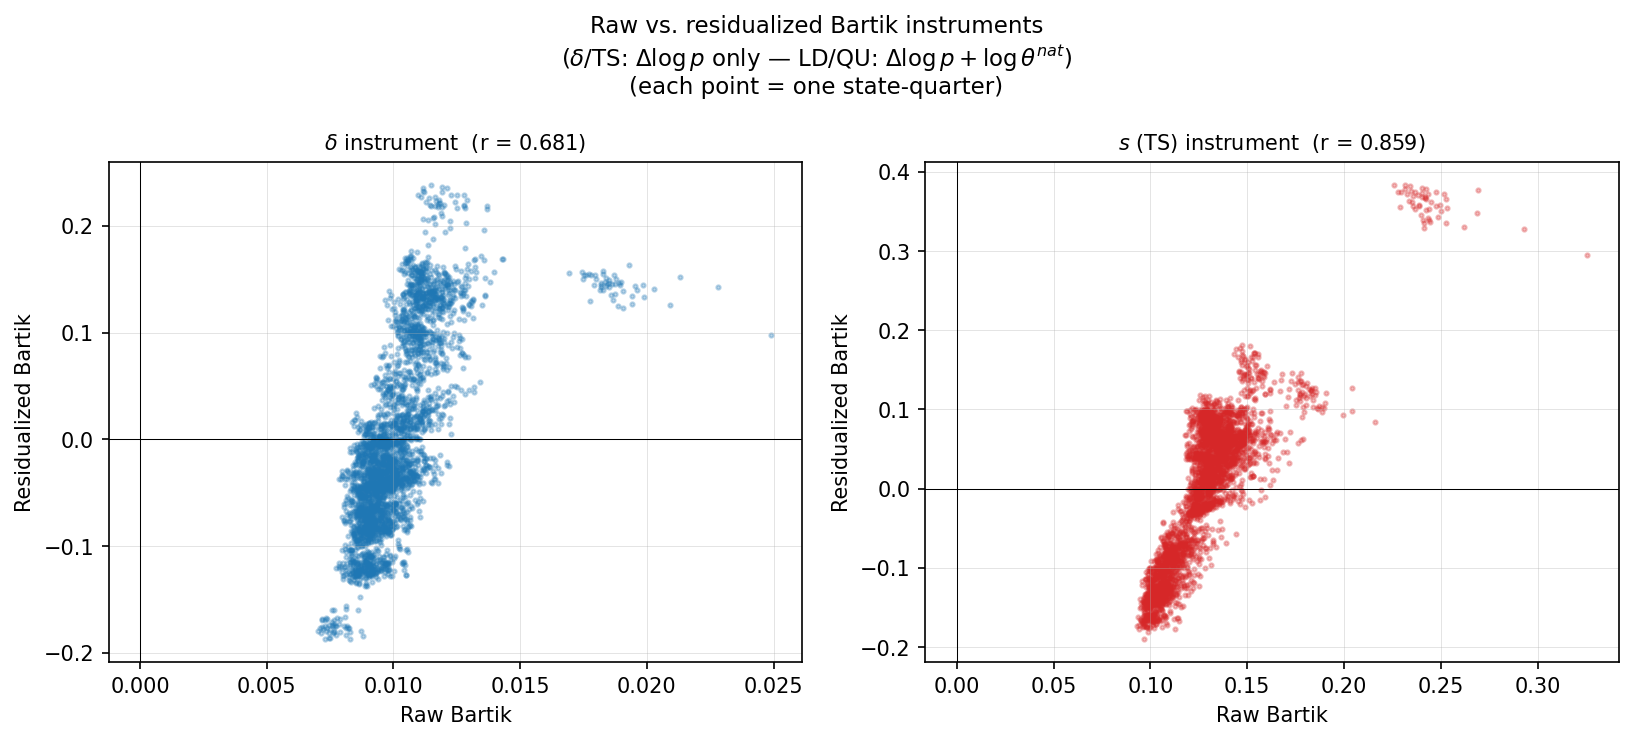
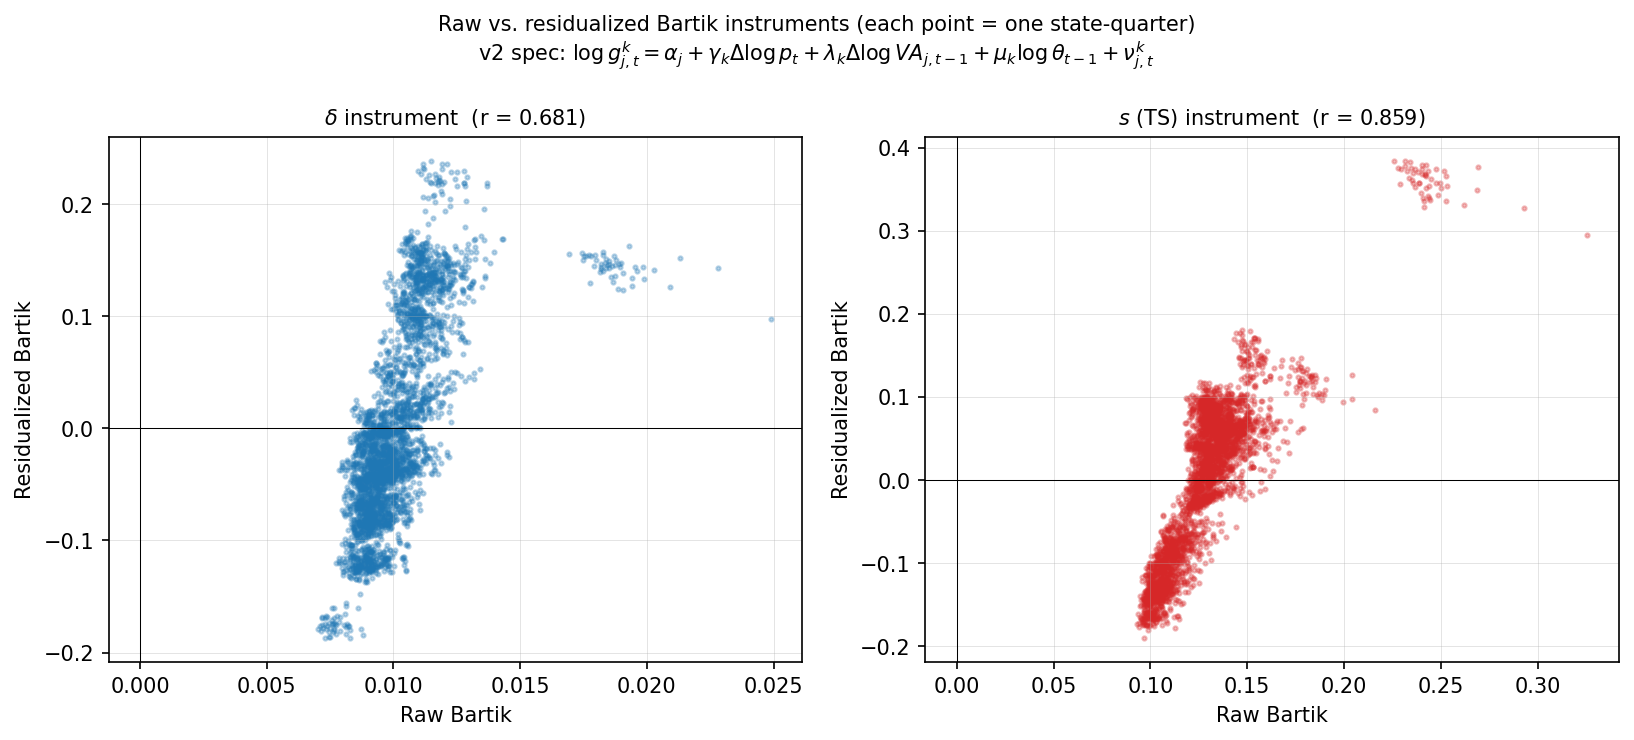
Update parts 2 and 3

diff --git a/Data/Bartek analysis/part3_resid_instruments.py b/Data/Bartek analysis/part3_resid_instruments.py
@@ -9,11 +9,15 @@ produced by part2b_shock_comovement.py:
     B~^LD_{s,t} = Σ_j  ω_{s,j}  nu_LD_{j,t}   (layoffs and discharges)
     B~^QU_{s,t} = Σ_j  ω_{s,j}  nu_QU_{j,t}   (quits)
 
-where ν^k_{j,t} are residuals from shock-specific regressions (see part2b):
-    log g^δ_{j,t}  = α_j + γ_δ  Δlog p_t                    + nu_delta_{j,t}
-    log g^TS_{j,t} = α_j + γ_TS Δlog p_t                    + nu_TS_{j,t}
-    log g^LD_{j,t} = α_j + γ_LD Δlog p_t + λ_LD log θ_t^nat + nu_LD_{j,t}
-    log g^QU_{j,t} = α_j + γ_QU Δlog p_t + λ_QU log θ_t^nat + nu_QU_{j,t}
+where ν^k_{j,t} are residuals from the v2 enriched regression in part2b:
+    log g^k_{j,t} = α_j + γ_k Δlog p_t + λ_k Δlog VA_{j,t-1} + μ_k log θ_{t-1} + ν^k_{j,t}
+
+    Δlog p_t       = aggregate productivity growth (OPHNFB, quarterly)
+    Δlog VA_{j,t-1}= lagged real value-added growth in supersector j (BEA via FRED)
+    log θ_{t-1}    = lagged national market tightness log(V/U)
+
+    The VA and tightness regressors are included for all shock types.
+    Both are lagged one quarter to ensure predetermination w.r.t. g^k_{j,t}.
 
 The employment shares ω_{s,j} are identical to those used in part3 and
 part3_instrument_s (base-year 2006 QCEW shares).
@@ -141,22 +145,56 @@ for lbl, df, col in [("nu_delta",  resid_d,  "nu_delta"),
 # ── Bartik aggregation ─────────────────────────────────────────────────────
 # B~^k_{s,t} = Σ_j  ω_{s,j}  ν^k_{j,t}
 
-def _build_resid_bartik(shares, resid, shock_col, bartik_col):
+def _build_resid_bartik(shares, resid, shock_col, bartik_col,
+                        weight_warn_threshold=0.80):
     """
     Aggregate residualized national industry shocks to state-quarter Bartik.
 
     Parameters
     ----------
-    shares     : state_fips, industry_code, share
-    resid      : industry_code, quarter_label, shock_col
-    shock_col  : residual column name (e.g. "nu_delta")
-    bartik_col : output instrument column name
+    shares                : state_fips, industry_code, share
+    resid                 : industry_code, quarter_label, shock_col
+    shock_col             : residual column name (e.g. "nu_delta")
+    bartik_col            : output instrument column name
+    weight_warn_threshold : print warning if weight_sum < this (default 0.80)
 
     Returns
     -------
     DataFrame: state, state_fips, quarter_label, bartik_col,
                weight_sum, n_supersectors
+
+    Notes
+    -----
+    Weight coverage can fall below 1.0 when the residual parquet is missing
+    data for some industries (e.g. JOLTS suppresses quits for thin-sample
+    supersectors like Mining or Information).  The diagnostic block below
+    identifies which industries are missing so the caller can decide whether
+    coverage is adequate for the intended instrument.
     """
+    # ── coverage diagnostic ───────────────────────────────────────────────
+    # Report which industries have ANY non-null residuals vs. which are
+    # completely absent.  A missing industry lowers weight_sum for every
+    # state that has employment in it.
+    all_inds   = set(shares["industry_code"].unique())
+    resid_inds = set(resid.dropna(subset=[shock_col])["industry_code"].unique())
+    missing_inds = all_inds - resid_inds
+    if missing_inds:
+        # Compute the average employment share of missing industries
+        # (approximates how much weight_sum will be depressed on average)
+        avg_missing_share = (
+            shares[shares["industry_code"].isin(missing_inds)]
+            .groupby("state_fips")["share"].sum()
+            .mean()
+        )
+        print(f"    Coverage: {len(resid_inds)}/{len(all_inds)} industries "
+              f"have {shock_col} data.")
+        print(f"    Missing industries: {sorted(missing_inds)}")
+        print(f"    Average missing employment share per state: "
+              f"{avg_missing_share:.3f}  "
+              f"(→ expected mean weight_sum ≈ {1 - avg_missing_share:.3f})")
+    else:
+        print(f"    Coverage: all {len(all_inds)} industries present.")
+
     merged = (
         resid.dropna(subset=[shock_col])
         .merge(shares[["state_fips", "industry_code", "share"]],
@@ -173,13 +211,18 @@ def _build_resid_bartik(shares, resid, shock_col, bartik_col):
     instr = (
         merged
         .groupby(["state_fips", "quarter_label"], group_keys=False)
-        .apply(_agg)
+        .apply(_agg, include_groups=False)
         .reset_index()
     )
 
-    low = instr["weight_sum"] < 0.80
+    low = instr["weight_sum"] < weight_warn_threshold
     if low.any():
-        print(f"    WARNING: {low.sum()} cells with weight coverage < 80%")
+        print(f"    NOTE: {low.sum()} of {len(instr):,} cells have "
+              f"weight_sum < {weight_warn_threshold:.0%} "
+              f"(mean weight = {instr['weight_sum'].mean():.3f}, "
+              f"min = {instr['weight_sum'].min():.3f}).  "
+              f"Interpret instrument with caution if missing industries "
+              f"are economically large.")
 
     instr["state_fips"] = instr["state_fips"].astype(int)
     instr["state"]      = instr["state_fips"].map(FIPS2D_TO_STATE)
@@ -269,7 +312,7 @@ if RAW_D_PATH.exists() and RAW_S_PATH.exists():
 def _quarterly_r(df, col1, col2):
     return (
         df.groupby("quarter_label")
-        .apply(lambda g: g[col1].corr(g[col2]))
+        .apply(lambda g: g[col1].corr(g[col2]), include_groups=False)
         .rename("r_cross").reset_index()
         .sort_values("quarter_label")
         .assign(date=lambda d: d["quarter_label"].map(_ql_to_dt))
@@ -282,40 +325,40 @@ r_dqu  = _quarterly_r(all_instr, "bartik_delta", "bartik_qu")
 # ── plot 1: quarterly cross-sectional correlation ─────────────────────────
 
 fig, ax = plt.subplots(figsize=(12, 4))
-ax.axhline(0,    color="black", linewidth=0.7)
-ax.axhline(0.50, color="grey",  linewidth=0.5, linestyle="--", alpha=0.5,
+_ = ax.axhline(0,    color="black", linewidth=0.7)
+_ = ax.axhline(0.50, color="grey",  linewidth=0.5, linestyle="--", alpha=0.5,
            label="r = 0.50")
-ax.axhline(0.70, color="grey",  linewidth=0.5, linestyle=":",  alpha=0.5,
+_ = ax.axhline(0.70, color="grey",  linewidth=0.5, linestyle=":",  alpha=0.5,
            label="r = 0.70")
 
 colors = {"δ vs TS": "#1f77b4", "δ vs LD": "#d62728", "δ vs QU": "#2ca02c"}
 for r_df, lbl in [(r_dts, "δ vs TS"), (r_dld, "δ vs LD"), (r_dqu, "δ vs QU")]:
-    ax.plot(r_df["date"], r_df["r_cross"],
+    _ = ax.plot(r_df["date"], r_df["r_cross"],
             linewidth=1.6, label=lbl, color=colors[lbl])
 
 # Overlay raw δ vs TS if available.
 if RAW_D_PATH.exists() and RAW_S_PATH.exists() and "both_raw" in dir():
     r_raw_qt = _quarterly_r(both_raw, "bartik_delta", "bartik_s")
-    ax.plot(r_raw_qt["date"], r_raw_qt["r_cross"],
+    _ = ax.plot(r_raw_qt["date"], r_raw_qt["r_cross"],
             color="#1f77b4", linewidth=1.6, linestyle="--", alpha=0.5,
             label="δ vs TS (raw)")
 
 for start, end in REC_SPANS:
-    ax.axvspan(pd.Timestamp(start), pd.Timestamp(end),
+    _ = ax.axvspan(pd.Timestamp(start), pd.Timestamp(end),
                alpha=0.10, color="grey",
                label="NBER recessions" if start == "2001-03-01" else "_nolegend_")
 
-ax.set_title(
+_ = ax.set_title(
     r"Quarterly cross-sectional correlation with $\tilde{B}^\delta$"
     "\n"
     r"Each point = Pearson $r$ across ~51 states in quarter $t$",
     fontsize=11,
 )
-ax.set_ylabel("Cross-sectional r", fontsize=10)
-ax.set_ylim(-0.55, 1.05)
+_ = ax.set_ylabel("Cross-sectional r", fontsize=10)
+_ = ax.set_ylim(-0.55, 1.05)
 ax.yaxis.set_major_formatter(mticker.FuncFormatter(lambda x, _: f"{x:.2f}"))
-ax.legend(fontsize=9, framealpha=0.85, ncol=2)
-ax.grid(axis="y", linewidth=0.4, alpha=0.4)
+_ = ax.legend(fontsize=9, framealpha=0.85, ncol=2)
+_ = ax.grid(axis="y", linewidth=0.4, alpha=0.4)
 fig.tight_layout()
 p = RESULTS_DIR / "instruments_resid_quarterly_correlation.png"
 fig.savefig(p, dpi=150, bbox_inches="tight"); plt.close(fig); _open_file(p)
@@ -328,15 +371,15 @@ print(f"\nPlot 1 saved: {p}")
 def _heatmap(ax, mat, title):
     im = ax.imshow(mat.values, vmin=-1, vmax=1, cmap="RdBu_r", aspect="auto")
     lbls = mat.columns.tolist()
-    ax.set_xticks(range(len(lbls))); ax.set_xticklabels(lbls, fontsize=11)
-    ax.set_yticks(range(len(lbls))); ax.set_yticklabels(lbls, fontsize=11)
-    ax.set_title(title, fontsize=10)
+    _ = ax.set_xticks(range(len(lbls))); ax.set_xticklabels(lbls, fontsize=11)
+    _ = ax.set_yticks(range(len(lbls))); ax.set_yticklabels(lbls, fontsize=11)
+    _ = ax.set_title(title, fontsize=10)
     for i in range(len(lbls)):
         for j in range(len(lbls)):
             v = mat.values[i, j]
-            ax.text(j, i, f"{v:.3f}", ha="center", va="center",
+            _ = ax.text(j, i, f"{v:.3f}", ha="center", va="center",
                     fontsize=10, color="white" if abs(v) > 0.6 else "black")
-    plt.colorbar(im, ax=ax, fraction=0.046, pad=0.04)
+    _ = plt.colorbar(im, ax=ax, fraction=0.046, pad=0.04)
 
 # 3x3 matrix: delta, LD, QU only
 cols_3  = ["bartik_delta", "bartik_ld", "bartik_qu"]
@@ -397,16 +440,18 @@ if RAW_D_PATH.exists() and RAW_S_PATH.exists():
     ]:
         r = comp["raw"].corr(comp["resid"])
         ax.scatter(comp["raw"], comp["resid"], s=4, alpha=0.3, color=color)
-        ax.set_xlabel("Raw Bartik", fontsize=10)
-        ax.set_ylabel("Residualized Bartik", fontsize=10)
-        ax.set_title(f"{title}  (r = {r:.3f})", fontsize=10)
-        ax.axhline(0, color="black", linewidth=0.5)
+        _ = ax.set_xlabel("Raw Bartik", fontsize=10)
+        _ = ax.set_ylabel("Residualized Bartik", fontsize=10)
+        _ = ax.set_title(f"{title}  (r = {r:.3f})", fontsize=10)
+        _ = ax.axhline(0, color="black", linewidth=0.5)
         ax.axvline(0, color="black", linewidth=0.5)
-        ax.grid(linewidth=0.4, alpha=0.4)
-    fig.suptitle("Raw vs. residualized Bartik instruments\n"
-                 r"($\delta$/TS: $\Delta\log p$ only — LD/QU: $\Delta\log p + \log\theta^{nat}$)"
-                 "\n"
-                 "(each point = one state-quarter)", fontsize=11)
+        _ = ax.grid(linewidth=0.4, alpha=0.4)
+    fig.suptitle(
+        "Raw vs. residualized Bartik instruments (each point = one state-quarter)\n"
+        r"v2 spec: $\log g^k_{j,t} = \alpha_j + \gamma_k \Delta\log p_t"
+        r"+ \lambda_k \Delta\log VA_{j,t-1} + \mu_k \log\theta_{t-1} + \nu^k_{j,t}$",
+        fontsize=10,
+    )
     fig.tight_layout()
     p = RESULTS_DIR / "instruments_resid_vs_raw_scatter.png"
     fig.savefig(p, dpi=150, bbox_inches="tight"); plt.close(fig); _open_file(p)

diff --git a/Data/Bartek analysis/part2b_shock_comovement.py b/Data/Bartek analysis/part2b_shock_comovement.py
@@ -410,12 +410,15 @@ if TIGHTNESS_CACHE.exists():
     tight = pd.read_parquet(TIGHTNESS_CACHE)
     print(f"  Loaded from cache")
 else:
-    if FRED_API_KEY:
-        print("  Fetching from FRED ...")
+    print("  Fetching from FRED ...")
+    try:
         tight = _fetch_fred_tightness()
-    else:
-        print("  FRED key not set — building from local part4 cache ...")
-        tight = _build_tightness_from_local()
+    except Exception as e:
+        sys.exit(
+            f"ERROR: FRED tightness fetch failed: {e}\n"
+            "  Cannot proceed without market tightness — v1 fallback is disabled.\n"
+            "  Check your FRED_API_KEY and network connection."
+        )
     tight.to_parquet(TIGHTNESS_CACHE, index=False)
     print(f"  Saved: {TIGHTNESS_CACHE}")
 
@@ -453,19 +456,16 @@ if not USE_BEA_VA:
             "  Check your FRED_API_KEY and network connection."
         )
 
-if USE_BEA_VA:
-    # Lag by one quarter within each industry
-    bea_va = bea_va.sort_values(["industry_code","quarter_label"]).reset_index(drop=True)
-    bea_va["dlog_va_lag"] = bea_va.groupby("industry_code")["dlog_va"].shift(1)
-    bea_lag = bea_va[["industry_code","quarter_label","dlog_va_lag"]].dropna().copy()
-    bea_lag["industry_code"] = bea_lag["industry_code"].astype(int)
-    nat["industry_code"]     = nat["industry_code"].astype(int)
-    nat = nat.merge(bea_lag, on=["industry_code","quarter_label"], how="inner")
-    nat = nat.dropna(subset=["dlog_va_lag"])
-    print(f"  After merging lagged industry VA: {len(nat):,} obs "
-          f"({nat['quarter_label'].min()}–{nat['quarter_label'].max()})")
-else:
-    nat["dlog_va_lag"] = np.nan
+# USE_BEA_VA guaranteed True here (script exits above if fetch fails).
+bea_va = bea_va.sort_values(["industry_code","quarter_label"]).reset_index(drop=True)
+bea_va["dlog_va_lag"] = bea_va.groupby("industry_code")["dlog_va"].shift(1)
+bea_lag = bea_va[["industry_code","quarter_label","dlog_va_lag"]].dropna().copy()
+bea_lag["industry_code"] = bea_lag["industry_code"].astype(int)
+nat["industry_code"]     = nat["industry_code"].astype(int)
+nat = nat.merge(bea_lag, on=["industry_code","quarter_label"], how="inner")
+nat = nat.dropna(subset=["dlog_va_lag"])
+print(f"  After merging lagged industry VA: {len(nat):,} obs "
+      f"({nat['quarter_label'].min()}–{nat['quarter_label'].max()})")
 
 # ── 6. residualization ────────────────────────────────────────────────────────
 nat = nat.sort_values(["industry_code","quarter_label"]).reset_index(drop=True)
@@ -577,49 +577,49 @@ fig.savefig(p, dpi=120, bbox_inches="tight"); plt.close(fig); _open_file(p)
 print(f"\nPlot A saved: {p}")
 
 # Plot B: 2×4 cross-industry correlation heatmaps
-def _corr_matrix(df, col):
-    sub = df[["quarter_label","industry_label",col]].dropna(subset=[col]).reset_index(drop=True)
-    q_list = sorted(sub["quarter_label"].unique())
-    i_list = sorted(sub["industry_label"].unique())
-    if not q_list or not i_list:
-        return pd.DataFrame()
-    mat = np.full((len(q_list), len(i_list)), np.nan)
-    qi = sub["quarter_label"].map({q:i for i,q in enumerate(q_list)}).to_numpy(dtype=int)
-    ii = sub["industry_label"].map({v:i for i,v in enumerate(i_list)}).to_numpy(dtype=int)
-    mat[qi, ii] = sub[col].to_numpy()
-    return pd.DataFrame(mat, index=q_list, columns=i_list).dropna(how="all", axis=1).corr()
+# def _corr_matrix(df, col):
+#     sub = df[["quarter_label","industry_label",col]].dropna(subset=[col]).reset_index(drop=True)
+#     q_list = sorted(sub["quarter_label"].unique())
+#     i_list = sorted(sub["industry_label"].unique())
+#     if not q_list or not i_list:
+#         return pd.DataFrame()
+#     mat = np.full((len(q_list), len(i_list)), np.nan)
+#     qi = sub["quarter_label"].map({q:i for i,q in enumerate(q_list)}).to_numpy(dtype=int)
+#     ii = sub["industry_label"].map({v:i for i,v in enumerate(i_list)}).to_numpy(dtype=int)
+#     mat[qi, ii] = sub[col].to_numpy()
+#     return pd.DataFrame(mat, index=q_list, columns=i_list).dropna(how="all", axis=1).corr()
 
-hmap_panels = [
-    (r"$\log g^\delta$ raw",  "log_g_delta"),
-    (r"$\log g^{TS}$ raw",    "log_g_s"),
-    (r"$\log g^{LD}$ raw",    "log_g_ld"),
-    (r"$\log g^{QU}$ raw",    "log_g_qu"),
-    (r"$\nu^\delta$ resid",   "nu_delta"),
-    (r"$\nu^{TS}$ resid",     "nu_s"),
-    (r"$\nu^{LD}$ resid",     "nu_ld"),
-    (r"$\nu^{QU}$ resid",     "nu_qu"),
-]
-fig, axes = plt.subplots(2, 4, figsize=(22, 11))
-for idx, (title, col) in enumerate(hmap_panels):
-    ax  = axes[idx // 4, idx % 4]
-    mat = _corr_matrix(nat, col)
-    im  = ax.imshow(mat.values, vmin=-1, vmax=1, cmap="RdBu_r", aspect="auto")
-    lbls = mat.columns.tolist()
-    ax.set_xticks(range(len(lbls))); ax.set_xticklabels(lbls, rotation=45, ha="right", fontsize=6)
-    ax.set_yticks(range(len(lbls))); ax.set_yticklabels(lbls, fontsize=6)
-    ax.set_title(title, fontsize=9)
-    for ii in range(len(lbls)):
-        for jj in range(len(lbls)):
-            v = mat.values[ii, jj]
-            ax.text(jj, ii, f"{v:.2f}", ha="center", va="center",
-                    fontsize=5, color="white" if abs(v) > 0.7 else "black")
-    plt.colorbar(im, ax=ax, fraction=0.046, pad=0.04)
-fig.suptitle(f"Cross-industry correlation matrices: raw vs. residualized [{spec}]",
-             fontsize=11, y=1.01)
-fig.tight_layout()
-p = RESULTS_DIR / "comovement_correlation_heatmaps.png"
-fig.savefig(p, dpi=120, bbox_inches="tight"); plt.close(fig); _open_file(p)
-print(f"Plot B saved: {p}")
+# hmap_panels = [
+#     (r"$\log g^\delta$ raw",  "log_g_delta"),
+#     (r"$\log g^{TS}$ raw",    "log_g_s"),
+#     (r"$\log g^{LD}$ raw",    "log_g_ld"),
+#     (r"$\log g^{QU}$ raw",    "log_g_qu"),
+#     (r"$\nu^\delta$ resid",   "nu_delta"),
+#     (r"$\nu^{TS}$ resid",     "nu_s"),
+#     (r"$\nu^{LD}$ resid",     "nu_ld"),
+#     (r"$\nu^{QU}$ resid",     "nu_qu"),
+# ]
+# fig, axes = plt.subplots(2, 4, figsize=(22, 11))
+# for idx, (title, col) in enumerate(hmap_panels):
+#     ax  = axes[idx // 4, idx % 4]
+#     mat = _corr_matrix(nat, col)
+#     im  = ax.imshow(mat.values, vmin=-1, vmax=1, cmap="RdBu_r", aspect="auto")
+#     lbls = mat.columns.tolist()
+#     ax.set_xticks(range(len(lbls))); ax.set_xticklabels(lbls, rotation=45, ha="right", fontsize=6)
+#     ax.set_yticks(range(len(lbls))); ax.set_yticklabels(lbls, fontsize=6)
+#     ax.set_title(title, fontsize=9)
+#     for ii in range(len(lbls)):
+#         for jj in range(len(lbls)):
+#             v = mat.values[ii, jj]
+#             ax.text(jj, ii, f"{v:.2f}", ha="center", va="center",
+#                     fontsize=5, color="white" if abs(v) > 0.7 else "black")
+#     plt.colorbar(im, ax=ax, fraction=0.046, pad=0.04)
+# fig.suptitle(f"Cross-industry correlation matrices: raw vs. residualized [{spec}]",
+#              fontsize=11, y=1.01)
+# fig.tight_layout()
+# p = RESULTS_DIR / "comovement_correlation_heatmaps.png"
+# fig.savefig(p, dpi=120, bbox_inches="tight"); plt.close(fig); _open_file(p)
+# print(f"Plot B saved: {p}")
 
 # Plot C: delta vs each s-type scatter (2 rows × 3 cols)
 scatter_pairs = [
